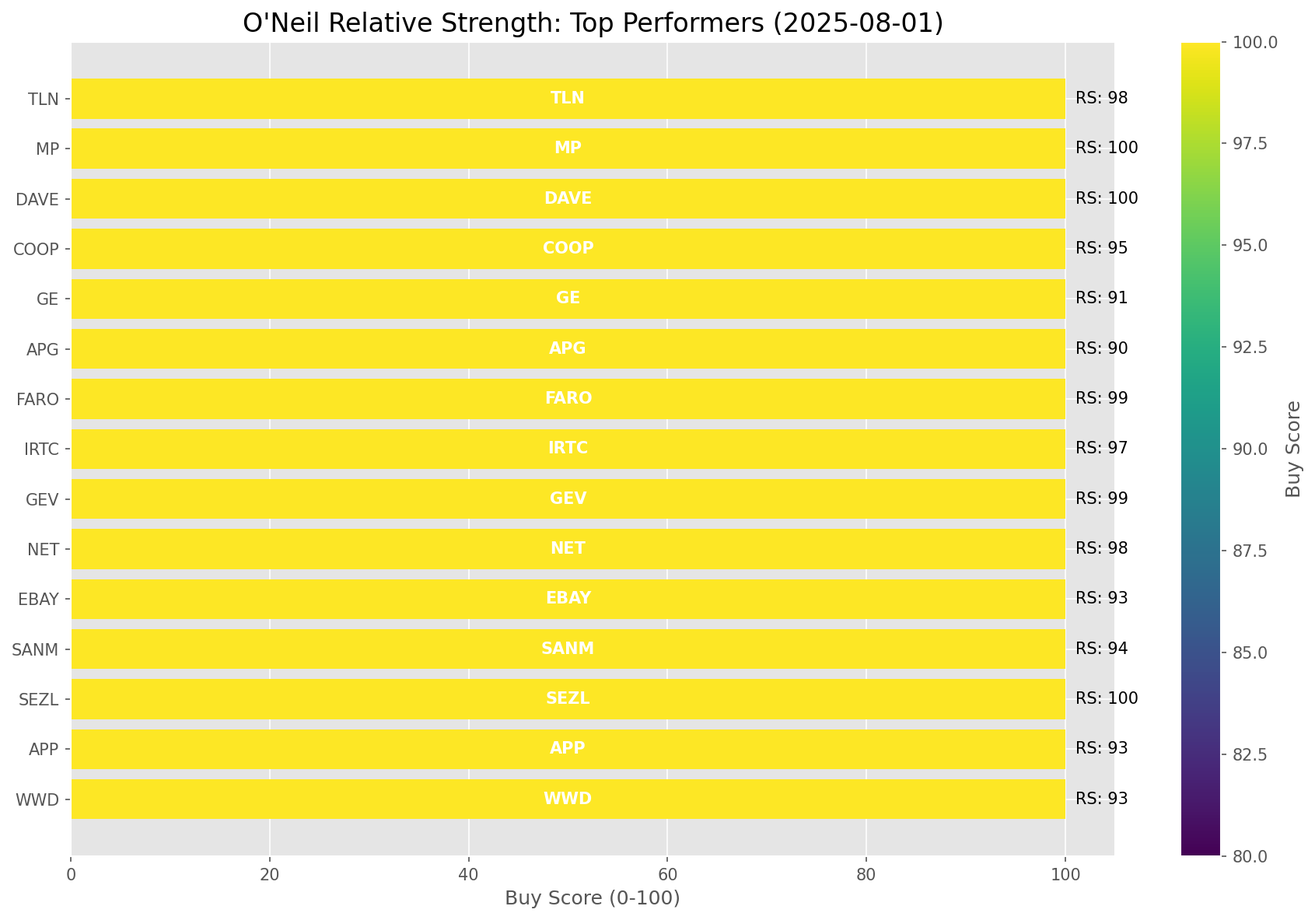
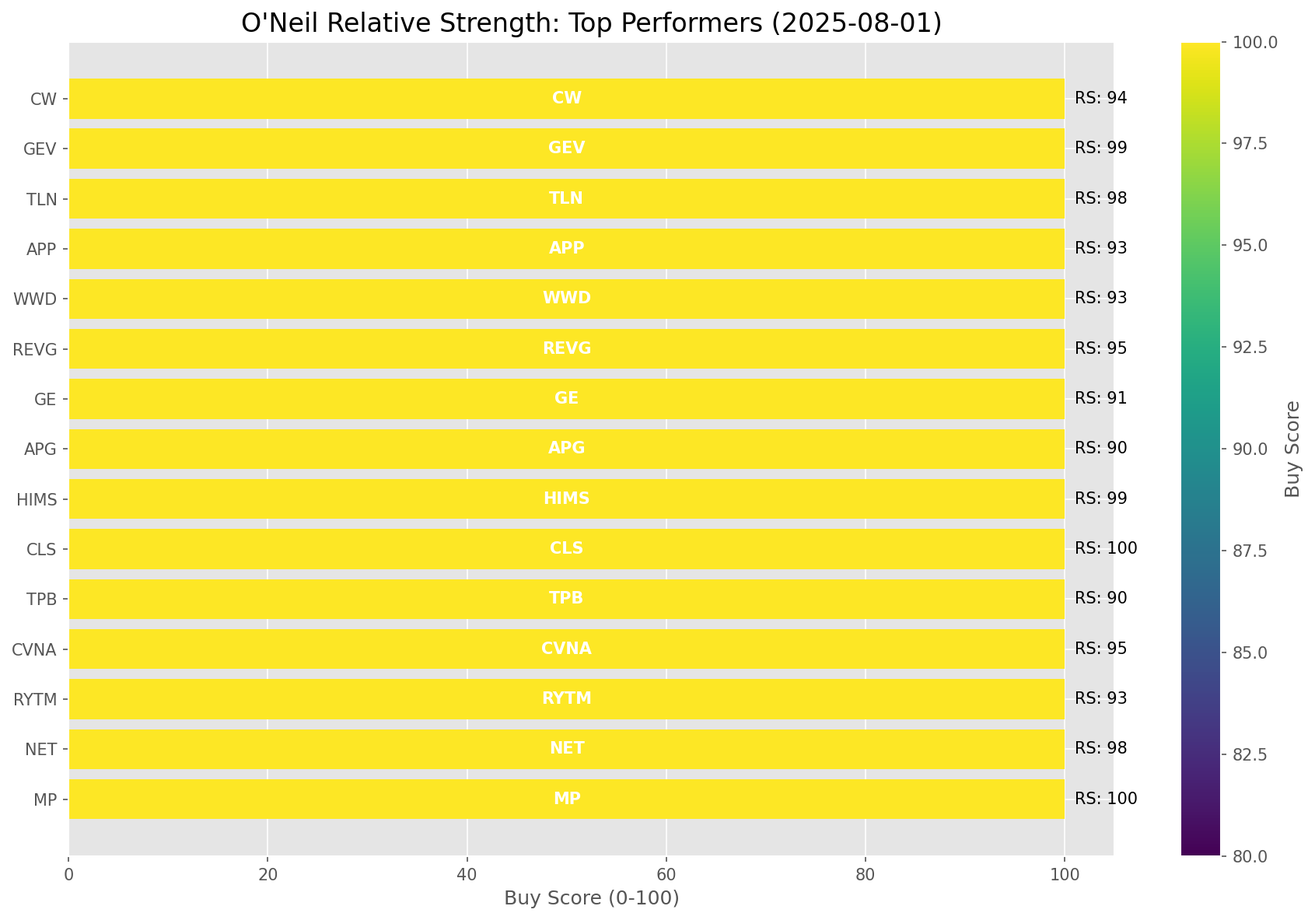
Add market report for 2025-08-01

diff --git a/oneil_relative_strength_report_2025-08-01.md b/oneil_relative_strength_report_2025-08-01.md
@@ -9,11 +9,11 @@
 | Metric | Value |
 |--------|-------|
 | **Market Valuation** | **Overvalued** |
-| **Current Ratio** | 10.09 |
+| **Current Ratio** | 10.08 |
 | **Historical Mean** | 9.55 |
 | **Standard Deviation** | 0.59 |
 | **Z-Score (StdDev from Mean)** | 1.20 |
-| **Total Market Cap** | $305.97 trillion |
+| **Total Market Cap** | $305.74 trillion |
 | **GDP** | $30.33 trillion |
 
 ## **Market Insights**
@@ -49,41 +49,41 @@ Based on William O'Neil's Relative Strength Methodology
 
 | ETF | Strength | RS Rating | Performance | Above Key MAs | Trend | Sector |
 |-----|----------|-----------|-------------|--------------|-------|--------|
-| [URA](https://www.tradingview.com/chart/?symbol=URA) | 88.6 | 97.0 | 50.81% | 10d ✗, 50d ✓, 200d ✓ | ↗ | Uranium |
-| [ARKW](https://www.tradingview.com/chart/?symbol=ARKW) | 87.6 | 95.0 | 45.14% | 10d ✗, 50d ✓, 200d ✓ | ↗ | Next Generation Internet |
+| [URA](https://www.tradingview.com/chart/?symbol=URA) | 88.6 | 97.0 | 51.01% | 10d ✗, 50d ✓, 200d ✓ | ↗ | Uranium |
+| [ARKW](https://www.tradingview.com/chart/?symbol=ARKW) | 87.6 | 95.0 | 45.27% | 10d ✗, 50d ✓, 200d ✓ | ↗ | Next Generation Internet |
+| [ARKF](https://www.tradingview.com/chart/?symbol=ARKF) | 87.1 | 94.0 | 40.97% | 10d ✗, 50d ✓, 200d ✓ | ↗ | Fintech Innovation |
 | [ARKK](https://www.tradingview.com/chart/?symbol=ARKK) | 87.1 | 94.0 | 40.16% | 10d ✗, 50d ✓, 200d ✓ | ↗ | Innovation |
-| [ARKF](https://www.tradingview.com/chart/?symbol=ARKF) | 87.1 | 94.0 | 40.94% | 10d ✗, 50d ✓, 200d ✓ | ↗ | Fintech Innovation |
-| [BLOK](https://www.tradingview.com/chart/?symbol=BLOK) | 86.6 | 93.0 | 36.83% | 10d ✗, 50d ✓, 200d ✓ | ↗ | Blockchain & Cryptocurrency |
-| [XLK](https://www.tradingview.com/chart/?symbol=XLK) | 81.1 | 82.0 | 20.70% | 10d ✗, 50d ✓, 200d ✓ | ↗ | Technology |
-| [XLU](https://www.tradingview.com/chart/?symbol=XLU) | 79.5 | 59.0 | 8.47% | 10d ✓, 50d ✓, 200d ✓ | ↗ | Utilities |
-| [AIQ](https://www.tradingview.com/chart/?symbol=AIQ) | 78.1 | 76.0 | 16.76% | 10d ✗, 50d ✓, 200d ✓ | ↗ | Artificial Intelligence & Technology |
-| [PAVE](https://www.tradingview.com/chart/?symbol=PAVE) | 77.6 | 75.0 | 15.85% | 10d ✗, 50d ✓, 200d ✓ | ↗ | Infrastructure |
-| [SLV](https://www.tradingview.com/chart/?symbol=SLV) | 76.1 | 72.0 | 14.04% | 10d ✗, 50d ✓, 200d ✓ | ↗ | Silver |
-| [XLI](https://www.tradingview.com/chart/?symbol=XLI) | 75.1 | 70.0 | 13.22% | 10d ✗, 50d ✓, 200d ✓ | ↗ | Industrial |
-| [XLC](https://www.tradingview.com/chart/?symbol=XLC) | 72.6 | 65.0 | 10.56% | 10d ✗, 50d ✓, 200d ✓ | ↗ | Communications |
-| [GLD](https://www.tradingview.com/chart/?symbol=GLD) | 72.5 | 45.0 | 3.68% | 10d ✓, 50d ✓, 200d ✓ | ↗ | Gold |
-| [IYZ](https://www.tradingview.com/chart/?symbol=IYZ) | 70.1 | 60.0 | 8.72% | 10d ✗, 50d ✓, 200d ✓ | ↗ | Telecommunications |
-| [SOXX](https://www.tradingview.com/chart/?symbol=SOXX) | 65.1 | 90.0 | 29.02% | 10d ✗, 50d ✓, 200d ✓ | ↘ | Semiconductors |
-| [XLY](https://www.tradingview.com/chart/?symbol=XLY) | 60.2 | 60.0 | 8.76% | 10d ✗, 50d ✗, 200d ✓ | ↗ | Consumer Discretionary |
-| [CIBR](https://www.tradingview.com/chart/?symbol=CIBR) | 58.2 | 56.0 | 7.45% | 10d ✗, 50d ✗, 200d ✓ | ↗ | Cybersecurity |
-| [KWEB](https://www.tradingview.com/chart/?symbol=KWEB) | 57.7 | 55.0 | 6.99% | 10d ✗, 50d ✗, 200d ✓ | ↗ | Chinese Internet |
-| [JETS](https://www.tradingview.com/chart/?symbol=JETS) | 57.5 | 75.0 | 16.17% | 10d ✗, 50d ✗, 200d ✗ | ↗ | Airlines |
-| [ICLN](https://www.tradingview.com/chart/?symbol=ICLN) | 57.1 | 74.0 | 15.42% | 10d ✗, 50d ✓, 200d ✓ | ↘ | Clean Energy |
-| [XLF](https://www.tradingview.com/chart/?symbol=XLF) | 55.7 | 51.0 | 5.41% | 10d ✗, 50d ✗, 200d ✓ | ↗ | Financial |
-| [ITB](https://www.tradingview.com/chart/?symbol=ITB) | 49.8 | 60.0 | 8.98% | 10d ✓, 50d ✓, 200d ✗ | ↘ | Home Construction |
-| [DBC](https://www.tradingview.com/chart/?symbol=DBC) | 47.1 | 54.0 | 6.82% | 10d ✗, 50d ✓, 200d ✓ | ↘ | Commodities |
-| [IBB](https://www.tradingview.com/chart/?symbol=IBB) | 46.6 | 53.0 | 6.27% | 10d ✗, 50d ✓, 200d ✓ | ↘ | Biotechnology |
-| [UUP](https://www.tradingview.com/chart/?symbol=UUP) | 35.3 | 31.0 | 0.16% | 10d ✓, 50d ✓, 200d ✗ | ↘ | U.S. Dollar |
-| [TLT](https://www.tradingview.com/chart/?symbol=TLT) | 33.3 | 27.0 | -0.92% | 10d ✓, 50d ✓, 200d ✗ | ↘ | Long-term Treasuries |
+| [BLOK](https://www.tradingview.com/chart/?symbol=BLOK) | 86.6 | 93.0 | 36.74% | 10d ✗, 50d ✓, 200d ✓ | ↗ | Blockchain & Cryptocurrency |
+| [XLK](https://www.tradingview.com/chart/?symbol=XLK) | 81.1 | 82.0 | 20.66% | 10d ✗, 50d ✓, 200d ✓ | ↗ | Technology |
+| [XLU](https://www.tradingview.com/chart/?symbol=XLU) | 79.5 | 59.0 | 8.43% | 10d ✓, 50d ✓, 200d ✓ | ↗ | Utilities |
+| [AIQ](https://www.tradingview.com/chart/?symbol=AIQ) | 78.6 | 77.0 | 16.95% | 10d ✗, 50d ✓, 200d ✓ | ↗ | Artificial Intelligence & Technology |
+| [PAVE](https://www.tradingview.com/chart/?symbol=PAVE) | 77.6 | 75.0 | 15.92% | 10d ✗, 50d ✓, 200d ✓ | ↗ | Infrastructure |
+| [SLV](https://www.tradingview.com/chart/?symbol=SLV) | 76.1 | 72.0 | 14.29% | 10d ✗, 50d ✓, 200d ✓ | ↗ | Silver |
+| [XLI](https://www.tradingview.com/chart/?symbol=XLI) | 75.6 | 71.0 | 13.26% | 10d ✗, 50d ✓, 200d ✓ | ↗ | Industrial |
+| [GLD](https://www.tradingview.com/chart/?symbol=GLD) | 73.0 | 46.0 | 3.92% | 10d ✓, 50d ✓, 200d ✓ | ↗ | Gold |
+| [XLC](https://www.tradingview.com/chart/?symbol=XLC) | 72.6 | 65.0 | 10.62% | 10d ✗, 50d ✓, 200d ✓ | ↗ | Communications |
+| [IYZ](https://www.tradingview.com/chart/?symbol=IYZ) | 70.1 | 60.0 | 8.79% | 10d ✗, 50d ✓, 200d ✓ | ↗ | Telecommunications |
+| [SOXX](https://www.tradingview.com/chart/?symbol=SOXX) | 65.1 | 90.0 | 29.22% | 10d ✗, 50d ✓, 200d ✓ | ↘ | Semiconductors |
+| [XLY](https://www.tradingview.com/chart/?symbol=XLY) | 60.7 | 61.0 | 8.94% | 10d ✗, 50d ✗, 200d ✓ | ↗ | Consumer Discretionary |
+| [KWEB](https://www.tradingview.com/chart/?symbol=KWEB) | 58.2 | 56.0 | 7.34% | 10d ✗, 50d ✗, 200d ✓ | ↗ | Chinese Internet |
+| [CIBR](https://www.tradingview.com/chart/?symbol=CIBR) | 58.2 | 56.0 | 7.37% | 10d ✗, 50d ✗, 200d ✓ | ↗ | Cybersecurity |
+| [JETS](https://www.tradingview.com/chart/?symbol=JETS) | 57.5 | 75.0 | 15.95% | 10d ✗, 50d ✗, 200d ✗ | ↗ | Airlines |
+| [ICLN](https://www.tradingview.com/chart/?symbol=ICLN) | 57.1 | 74.0 | 15.25% | 10d ✗, 50d ✓, 200d ✓ | ↘ | Clean Energy |
+| [XLF](https://www.tradingview.com/chart/?symbol=XLF) | 55.7 | 51.0 | 5.44% | 10d ✗, 50d ✗, 200d ✓ | ↗ | Financial |
+| [ITB](https://www.tradingview.com/chart/?symbol=ITB) | 49.8 | 60.0 | 8.87% | 10d ✓, 50d ✓, 200d ✗ | ↘ | Home Construction |
+| [DBC](https://www.tradingview.com/chart/?symbol=DBC) | 47.6 | 55.0 | 6.87% | 10d ✗, 50d ✓, 200d ✓ | ↘ | Commodities |
+| [IBB](https://www.tradingview.com/chart/?symbol=IBB) | 47.1 | 54.0 | 6.53% | 10d ✗, 50d ✓, 200d ✓ | ↘ | Biotechnology |
+| [UUP](https://www.tradingview.com/chart/?symbol=UUP) | 34.8 | 30.0 | 0.00% | 10d ✓, 50d ✓, 200d ✗ | ↘ | U.S. Dollar |
+| [TLT](https://www.tradingview.com/chart/?symbol=TLT) | 33.3 | 27.0 | -0.98% | 10d ✓, 50d ✓, 200d ✗ | ↘ | Long-term Treasuries |
 | [IYT](https://www.tradingview.com/chart/?symbol=IYT) | 31.0 | 62.0 | 9.68% | 10d ✗, 50d ✗, 200d ✗ | ↘ | Transportation |
-| [DBA](https://www.tradingview.com/chart/?symbol=DBA) | 29.0 | 18.0 | -4.91% | 10d ✗, 50d ✗, 200d ✗ | ↗ | Agriculture |
-| [ARKG](https://www.tradingview.com/chart/?symbol=ARKG) | 29.0 | 58.0 | 8.05% | 10d ✗, 50d ✗, 200d ✗ | ↘ | Genomics |
-| [XLE](https://www.tradingview.com/chart/?symbol=XLE) | 26.0 | 52.0 | 5.99% | 10d ✗, 50d ✗, 200d ✗ | ↘ | Energy |
-| [XLB](https://www.tradingview.com/chart/?symbol=XLB) | 23.0 | 46.0 | 3.75% | 10d ✗, 50d ✗, 200d ✗ | ↘ | Materials |
-| [IYR](https://www.tradingview.com/chart/?symbol=IYR) | 17.5 | 35.0 | 0.88% | 10d ✗, 50d ✗, 200d ✗ | ↘ | Real Estate |
+| [DBA](https://www.tradingview.com/chart/?symbol=DBA) | 29.5 | 19.0 | -4.86% | 10d ✗, 50d ✗, 200d ✗ | ↗ | Agriculture |
+| [ARKG](https://www.tradingview.com/chart/?symbol=ARKG) | 29.5 | 59.0 | 8.32% | 10d ✗, 50d ✗, 200d ✗ | ↘ | Genomics |
+| [XLE](https://www.tradingview.com/chart/?symbol=XLE) | 26.0 | 52.0 | 5.93% | 10d ✗, 50d ✗, 200d ✗ | ↘ | Energy |
+| [XLB](https://www.tradingview.com/chart/?symbol=XLB) | 23.0 | 46.0 | 3.83% | 10d ✗, 50d ✗, 200d ✗ | ↘ | Materials |
+| [IYR](https://www.tradingview.com/chart/?symbol=IYR) | 17.5 | 35.0 | 0.85% | 10d ✗, 50d ✗, 200d ✗ | ↘ | Real Estate |
 | [BIL](https://www.tradingview.com/chart/?symbol=BIL) | 15.0 | 30.0 | 0.04% | 10d ✗, 50d ✗, 200d ✗ | ↘ | Short-term Treasuries |
-| [XLP](https://www.tradingview.com/chart/?symbol=XLP) | 13.5 | 27.0 | -1.23% | 10d ✗, 50d ✗, 200d ✗ | ↘ | Consumer Staples |
-| [XLV](https://www.tradingview.com/chart/?symbol=XLV) | 10.0 | 20.0 | -4.06% | 10d ✗, 50d ✗, 200d ✗ | ↘ | Healthcare |
+| [XLP](https://www.tradingview.com/chart/?symbol=XLP) | 13.5 | 27.0 | -1.18% | 10d ✗, 50d ✗, 200d ✗ | ↘ | Consumer Staples |
+| [XLV](https://www.tradingview.com/chart/?symbol=XLV) | 10.0 | 20.0 | -4.03% | 10d ✗, 50d ✗, 200d ✗ | ↘ | Healthcare |
 
 ### **Sector ETF Performance Interpretation**
 
@@ -98,9 +98,9 @@ This table shows the relative strength metrics for different market sectors base
 
 ### **Current Sector Leadership**
 
-The current market leadership is coming from the following sectors: **Uranium, Next Generation Internet, Innovation**.
+The current market leadership is coming from the following sectors: **Uranium, Next Generation Internet, Fintech Innovation**.
 
-The **Uranium** sector (represented by **URA**) is showing particularly strong relative strength with an RS rating of 97.0 and performance of 50.81% vs. the S&P 500. This sector is trading above its 50-day, 200-day moving average(s). Investors should consider focusing on high RS stocks within these leading sectors for potential outperformance.
+The **Uranium** sector (represented by **URA**) is showing particularly strong relative strength with an RS rating of 97.0 and performance of 51.01% vs. the S&P 500. This sector is trading above its 50-day, 200-day moving average(s). Investors should consider focusing on high RS stocks within these leading sectors for potential outperformance.
 
 ---
 
@@ -110,134 +110,118 @@ The following 40 stocks show exceptional relative strength:
 
 | RS Rating | Buy Score | Current Price | Chart | Name | Ticker |
 |-----------|-----------|---------------|-------|------|--------|
-| 100 | 100 | $143.89 | [Chart](https://www.tradingview.com/chart/?symbol=SEZL) | Sezzle Inc. Common Stock | SEZL |
-| 100 | 100 | $230.88 | [Chart](https://www.tradingview.com/chart/?symbol=DAVE) | Dave Inc. Class A Common Stock | DAVE |
-| 100 | 100 | $63.70 | [Chart](https://www.tradingview.com/chart/?symbol=MP) | MP Materials Corp. | MP |
-| 100 | 100 | $193.70 | [Chart](https://www.tradingview.com/chart/?symbol=CLS) | Celestica, Inc. | CLS |
-| 99 | 100 | $655.82 | [Chart](https://www.tradingview.com/chart/?symbol=GEV) | GE Vernova Inc. | GEV |
-| 99 | 100 | $61.98 | [Chart](https://www.tradingview.com/chart/?symbol=HIMS) | Hims & Hers Health, Inc. | HIMS |
-| 99 | 100 | $124.51 | [Chart](https://www.tradingview.com/chart/?symbol=RBLX) | Roblox Corporation | RBLX |
-| 99 | 100 | $27.34 | [Chart](https://www.tradingview.com/chart/?symbol=CPS) | Cooper-Standard Automotive Inc. | CPS |
-| 98 | 100 | $199.79 | [Chart](https://www.tradingview.com/chart/?symbol=NET) | Cloudflare, Inc. Class A common stock, par value $0.001 per share | NET |
-| 98 | 100 | $379.57 | [Chart](https://www.tradingview.com/chart/?symbol=TLN) | Talen Energy Corporation Common Stock | TLN |
-| 97 | 100 | $165.69 | [Chart](https://www.tradingview.com/chart/?symbol=IRTC) | iRhythm Technologies, Inc | IRTC |
-| 96 | 100 | $167.58 | [Chart](https://www.tradingview.com/chart/?symbol=NRG) | NRG Energy, Inc. | NRG |
-| 95 | 100 | $172.48 | [Chart](https://www.tradingview.com/chart/?symbol=COOP) | Mr. Cooper Group Inc. Common Stock | COOP |
-| 95 | 100 | $105.16 | [Chart](https://www.tradingview.com/chart/?symbol=VRNA) | Verona Pharma plc | VRNA |
-| 95 | 100 | $367.42 | [Chart](https://www.tradingview.com/chart/?symbol=CVNA) | Carvana Co. | CVNA |
-| 95 | 100 | $48.30 | [Chart](https://www.tradingview.com/chart/?symbol=REVG) | REV Group, Inc. | REVG |
-| 94 | 100 | $110.78 | [Chart](https://www.tradingview.com/chart/?symbol=SANM) | Sanmina  Corp | SANM |
-| 94 | 100 | $493.45 | [Chart](https://www.tradingview.com/chart/?symbol=CW) | Curtiss-Wright Corp. | CW |
-| 93 | 100 | $258.85 | [Chart](https://www.tradingview.com/chart/?symbol=WWD) | Woodward, Inc. | WWD |
-| 93 | 100 | $379.67 | [Chart](https://www.tradingview.com/chart/?symbol=APP) | Applovin Corporation Class A Common Stock | APP |
-| 93 | 100 | $92.34 | [Chart](https://www.tradingview.com/chart/?symbol=EBAY) | eBay Inc | EBAY |
-| 93 | 100 | $87.59 | [Chart](https://www.tradingview.com/chart/?symbol=RYTM) | Rhythm Pharmaceuticals, Inc. Common Stock | RYTM |
-| 93 | 100 | $43.02 | [Chart](https://www.tradingview.com/chart/?symbol=LTM) | LATAM Airlines Group S.A. American Depositary Shares (each representing two thousand (2,000) shares of Common Stock) | LTM |
-| 91 | 100 | $268.80 | [Chart](https://www.tradingview.com/chart/?symbol=GE) | GE Aerospace | GE |
-| 91 | 100 | $81.68 | [Chart](https://www.tradingview.com/chart/?symbol=TPB) | Turning Point Brands, Inc. | TPB |
-| 90 | 100 | $35.22 | [Chart](https://www.tradingview.com/chart/?symbol=APG) | APi Group Corporation | APG |
-| 88 | 100 | $29.69 | [Chart](https://www.tradingview.com/chart/?symbol=SRAD) | Sportradar Group AG Class A Ordinary Shares | SRAD |
-| 88 | 100 | $145.91 | [Chart](https://www.tradingview.com/chart/?symbol=VSEC) | VSE Corp | VSEC |
-| 89 | 99 | $187.46 | [Chart](https://www.tradingview.com/chart/?symbol=AWI) | Armstrong World Industries, Inc. | AWI |
-| 87 | 99 | $54.40 | [Chart](https://www.tradingview.com/chart/?symbol=BTI) | British American Tobacco p.l.c. American Depositary Shares, American Depositary Shares, each representing one Ordinary Share | BTI |
-| 86 | 99 | $56.93 | [Chart](https://www.tradingview.com/chart/?symbol=ERJ) | Embraer S.A. | ERJ |
-| 84 | 97 | $32.47 | [Chart](https://www.tradingview.com/chart/?symbol=DB) | Deutsche Bank Aktiengesellschaft | DB |
+| 100 | 100 | $63.69 | [Chart](https://www.tradingview.com/chart/?symbol=MP) | MP Materials Corp. | MP |
+| 100 | 100 | $194.74 | [Chart](https://www.tradingview.com/chart/?symbol=CLS) | Celestica, Inc. | CLS |
+| 100 | 100 | $232.73 | [Chart](https://www.tradingview.com/chart/?symbol=DAVE) | Dave Inc. Class A Common Stock | DAVE |
+| 100 | 100 | $144.00 | [Chart](https://www.tradingview.com/chart/?symbol=SEZL) | Sezzle Inc. Common Stock | SEZL |
+| 99 | 100 | $62.55 | [Chart](https://www.tradingview.com/chart/?symbol=HIMS) | Hims & Hers Health, Inc. | HIMS |
+| 99 | 100 | $656.50 | [Chart](https://www.tradingview.com/chart/?symbol=GEV) | GE Vernova Inc. | GEV |
+| 99 | 100 | $125.03 | [Chart](https://www.tradingview.com/chart/?symbol=RBLX) | Roblox Corporation | RBLX |
+| 99 | 100 | $26.34 | [Chart](https://www.tradingview.com/chart/?symbol=CPS) | Cooper-Standard Automotive Inc. | CPS |
+| 98 | 100 | $200.11 | [Chart](https://www.tradingview.com/chart/?symbol=NET) | Cloudflare, Inc. Class A common stock, par value $0.001 per share | NET |
+| 98 | 100 | $378.01 | [Chart](https://www.tradingview.com/chart/?symbol=TLN) | Talen Energy Corporation Common Stock | TLN |
+| 97 | 100 | $164.97 | [Chart](https://www.tradingview.com/chart/?symbol=IRTC) | iRhythm Technologies, Inc | IRTC |
+| 96 | 100 | $167.63 | [Chart](https://www.tradingview.com/chart/?symbol=NRG) | NRG Energy, Inc. | NRG |
+| 95 | 100 | $367.78 | [Chart](https://www.tradingview.com/chart/?symbol=CVNA) | Carvana Co. | CVNA |
+| 95 | 100 | $48.37 | [Chart](https://www.tradingview.com/chart/?symbol=REVG) | REV Group, Inc. | REVG |
+| 95 | 100 | $174.26 | [Chart](https://www.tradingview.com/chart/?symbol=COOP) | Mr. Cooper Group Inc. Common Stock | COOP |
+| 95 | 100 | $105.18 | [Chart](https://www.tradingview.com/chart/?symbol=VRNA) | Verona Pharma plc | VRNA |
+| 94 | 100 | $493.58 | [Chart](https://www.tradingview.com/chart/?symbol=CW) | Curtiss-Wright Corp. | CW |
+| 94 | 100 | $110.96 | [Chart](https://www.tradingview.com/chart/?symbol=SANM) | Sanmina  Corp | SANM |
+| 93 | 100 | $88.30 | [Chart](https://www.tradingview.com/chart/?symbol=RYTM) | Rhythm Pharmaceuticals, Inc. Common Stock | RYTM |
+| 93 | 100 | $259.29 | [Chart](https://www.tradingview.com/chart/?symbol=WWD) | Woodward, Inc. | WWD |
+| 93 | 100 | $379.17 | [Chart](https://www.tradingview.com/chart/?symbol=APP) | Applovin Corporation Class A Common Stock | APP |
+| 93 | 100 | $42.76 | [Chart](https://www.tradingview.com/chart/?symbol=LTM) | LATAM Airlines Group S.A. American Depositary Shares (each representing two thousand (2,000) shares of Common Stock) | LTM |
+| 93 | 100 | $91.74 | [Chart](https://www.tradingview.com/chart/?symbol=EBAY) | eBay Inc | EBAY |
+| 91 | 100 | $269.38 | [Chart](https://www.tradingview.com/chart/?symbol=GE) | GE Aerospace | GE |
+| 90 | 100 | $80.96 | [Chart](https://www.tradingview.com/chart/?symbol=TPB) | Turning Point Brands, Inc. | TPB |
+| 90 | 100 | $35.07 | [Chart](https://www.tradingview.com/chart/?symbol=APG) | APi Group Corporation | APG |
+| 89 | 100 | $146.27 | [Chart](https://www.tradingview.com/chart/?symbol=VSEC) | VSE Corp | VSEC |
+| 87 | 100 | $29.57 | [Chart](https://www.tradingview.com/chart/?symbol=SRAD) | Sportradar Group AG Class A Ordinary Shares | SRAD |
+| 89 | 99 | $188.52 | [Chart](https://www.tradingview.com/chart/?symbol=AWI) | Armstrong World Industries, Inc. | AWI |
+| 87 | 99 | $54.35 | [Chart](https://www.tradingview.com/chart/?symbol=BTI) | British American Tobacco p.l.c. American Depositary Shares, American Depositary Shares, each representing one Ordinary Share | BTI |
+| 85 | 98 | $56.84 | [Chart](https://www.tradingview.com/chart/?symbol=ERJ) | Embraer S.A. | ERJ |
+| 87 | 97 | $259.02 | [Chart](https://www.tradingview.com/chart/?symbol=WTS) | Watts Water Technologies, Inc. Class A | WTS |
+| 85 | 97 | $47.37 | [Chart](https://www.tradingview.com/chart/?symbol=BBIO) | BridgeBio Pharma, Inc. Common Stock | BBIO |
+| 84 | 97 | $32.53 | [Chart](https://www.tradingview.com/chart/?symbol=DB) | Deutsche Bank Aktiengesellschaft | DB |
 | 84 | 97 | $38.89 | [Chart](https://www.tradingview.com/chart/?symbol=AHR) | American Healthcare REIT, Inc. | AHR |
-| 86 | 96 | $94.86 | [Chart](https://www.tradingview.com/chart/?symbol=NDAQ) | Nasdaq, Inc. Common Stock | NDAQ |
-| 86 | 96 | $258.86 | [Chart](https://www.tradingview.com/chart/?symbol=WTS) | Watts Water Technologies, Inc. Class A | WTS |
-| 85 | 96 | $71.99 | [Chart](https://www.tradingview.com/chart/?symbol=ULS) | UL Solutions Inc. | ULS |
-| 84 | 96 | $46.95 | [Chart](https://www.tradingview.com/chart/?symbol=BBIO) | BridgeBio Pharma, Inc. Common Stock | BBIO |
-| 82 | 92 | $49.31 | [Chart](https://www.tradingview.com/chart/?symbol=FHI) | Federated Hermes, Inc. | FHI |
-| 81 | 91 | $111.49 | [Chart](https://www.tradingview.com/chart/?symbol=SXT) | Sensient Technology Corporation | SXT |
-| 80 | 91 | $236.16 | [Chart](https://www.tradingview.com/chart/?symbol=BAP) | Credicorp LTD | BAP |
+| 86 | 96 | $95.17 | [Chart](https://www.tradingview.com/chart/?symbol=NDAQ) | Nasdaq, Inc. Common Stock | NDAQ |
+| 84 | 95 | $71.90 | [Chart](https://www.tradingview.com/chart/?symbol=ULS) | UL Solutions Inc. | ULS |
+| 82 | 92 | $49.23 | [Chart](https://www.tradingview.com/chart/?symbol=FHI) | Federated Hermes, Inc. | FHI |
+| 82 | 92 | $111.71 | [Chart](https://www.tradingview.com/chart/?symbol=SXT) | Sensient Technology Corporation | SXT |
+| 80 | 91 | $236.50 | [Chart](https://www.tradingview.com/chart/?symbol=BAP) | Credicorp LTD | BAP |
 
 ---
 
 
 ## **Sell Recommendations**
 
-The following 78 stocks show deteriorating relative strength:
+The following 62 stocks show deteriorating relative strength:
 
 | RS Rating | Sell Score | Current Price | Chart | Name | Ticker |
 |-----------|------------|---------------|-------|------|--------|
-| 1 | 100 | $12.49 | [Chart](https://www.tradingview.com/chart/?symbol=NVDS) | Investment Managers Series Trust II Tradr 1.5X Short NVDA Daily ETF | NVDS |
-| 1 | 100 | $70.59 | [Chart](https://www.tradingview.com/chart/?symbol=LNTH) | Lantheus Holdings, Inc | LNTH |
-| 2 | 100 | $13.72 | [Chart](https://www.tradingview.com/chart/?symbol=CLBT) | Cellebrite DI Ltd. Class A Ordinary Shares | CLBT |
-| 2 | 100 | $35.27 | [Chart](https://www.tradingview.com/chart/?symbol=IBTA) | Ibotta, Inc. | IBTA |
-| 3 | 100 | $14.84 | [Chart](https://www.tradingview.com/chart/?symbol=CSTL) | Castle Biosciences, Inc. Common Stock | CSTL |
-| 3 | 100 | $24.19 | [Chart](https://www.tradingview.com/chart/?symbol=DUST) | Direxion Daily Gold Miners Index Bear 2X Shares | DUST |
-| 4 | 100 | $24.61 | [Chart](https://www.tradingview.com/chart/?symbol=ZSL) | ProShares UltraShort Silver | ZSL |
-| 5 | 100 | $43.27 | [Chart](https://www.tradingview.com/chart/?symbol=SDOW) | ProShares UltraPro Short Dow 30 | SDOW |
-| 5 | 100 | $12.24 | [Chart](https://www.tradingview.com/chart/?symbol=CDNA) | CareDx, Inc. | CDNA |
-| 5 | 100 | $10.29 | [Chart](https://www.tradingview.com/chart/?symbol=ARDT) | Ardent Health, Inc. | ARDT |
+| 1 | 100 | $70.57 | [Chart](https://www.tradingview.com/chart/?symbol=LNTH) | Lantheus Holdings, Inc | LNTH |
+| 1 | 100 | $12.47 | [Chart](https://www.tradingview.com/chart/?symbol=NVDS) | Investment Managers Series Trust II Tradr 1.5X Short NVDA Daily ETF | NVDS |
+| 2 | 100 | $13.70 | [Chart](https://www.tradingview.com/chart/?symbol=CLBT) | Cellebrite DI Ltd. Class A Ordinary Shares | CLBT |
+| 3 | 100 | $14.65 | [Chart](https://www.tradingview.com/chart/?symbol=CSTL) | Castle Biosciences, Inc. Common Stock | CSTL |
+| 3 | 100 | $24.50 | [Chart](https://www.tradingview.com/chart/?symbol=ZSL) | ProShares UltraShort Silver | ZSL |
+| 5 | 100 | $12.22 | [Chart](https://www.tradingview.com/chart/?symbol=CDNA) | CareDx, Inc. | CDNA |
+| 5 | 100 | $43.26 | [Chart](https://www.tradingview.com/chart/?symbol=SDOW) | ProShares UltraPro Short Dow 30 | SDOW |
+| 5 | 100 | $10.22 | [Chart](https://www.tradingview.com/chart/?symbol=ARDT) | Ardent Health, Inc. | ARDT |
 | 6 | 100 | $10.37 | [Chart](https://www.tradingview.com/chart/?symbol=OEC) | Orion S.A. | OEC |
-| 6 | 100 | $20.72 | [Chart](https://www.tradingview.com/chart/?symbol=KIDS) | OrthoPediatrics Corp. Common Stock | KIDS |
-| 7 | 100 | $20.69 | [Chart](https://www.tradingview.com/chart/?symbol=AMRK) | A-Mark Precious Metals, Inc. | AMRK |
-| 8 | 100 | $22.39 | [Chart](https://www.tradingview.com/chart/?symbol=ERY) | Direxion Daily Energy Bear 2X Shares | ERY |
-| 8 | 100 | $31.39 | [Chart](https://www.tradingview.com/chart/?symbol=GLBE) | Global-E Online Ltd. Ordinary Shares | GLBE |
-| 9 | 100 | $54.50 | [Chart](https://www.tradingview.com/chart/?symbol=HRB) | H&R Block, Inc. | HRB |
-| 13 | 100 | $16.24 | [Chart](https://www.tradingview.com/chart/?symbol=UMH) | UMH Properties, Inc. | UMH |
-| 14 | 100 | $14.92 | [Chart](https://www.tradingview.com/chart/?symbol=FIHL) | Fidelis Insurance Holdings Limited | FIHL |
-| 6 | 99 | $15.02 | [Chart](https://www.tradingview.com/chart/?symbol=PLSE) | Pulse Biosciences, Inc Common Stock (DE) | PLSE |
-| 8 | 99 | $12.52 | [Chart](https://www.tradingview.com/chart/?symbol=BSM) | Black Stone Minerals, L.P. | BSM |
-| 10 | 99 | $21.14 | [Chart](https://www.tradingview.com/chart/?symbol=AMPH) | Amphastar Pharmaceuticals, Inc. | AMPH |
-| 12 | 99 | $52.61 | [Chart](https://www.tradingview.com/chart/?symbol=AMWD) | American Woodmark Corp | AMWD |
-| 7 | 98 | $18.76 | [Chart](https://www.tradingview.com/chart/?symbol=GAP) | The Gap, Inc. | GAP |
-| 9 | 98 | $17.95 | [Chart](https://www.tradingview.com/chart/?symbol=AMN) | AMN Healthcare Services | AMN |
+| 6 | 100 | $20.39 | [Chart](https://www.tradingview.com/chart/?symbol=KIDS) | OrthoPediatrics Corp. Common Stock | KIDS |
+| 7 | 100 | $20.57 | [Chart](https://www.tradingview.com/chart/?symbol=AMRK) | A-Mark Precious Metals, Inc. | AMRK |
+| 9 | 100 | $54.48 | [Chart](https://www.tradingview.com/chart/?symbol=HRB) | H&R Block, Inc. | HRB |
+| 14 | 100 | $14.87 | [Chart](https://www.tradingview.com/chart/?symbol=FIHL) | Fidelis Insurance Holdings Limited | FIHL |
+| 6 | 99 | $14.75 | [Chart](https://www.tradingview.com/chart/?symbol=PLSE) | Pulse Biosciences, Inc Common Stock (DE) | PLSE |
+| 8 | 99 | $22.39 | [Chart](https://www.tradingview.com/chart/?symbol=ERY) | Direxion Daily Energy Bear 2X Shares | ERY |
+| 8 | 99 | $31.42 | [Chart](https://www.tradingview.com/chart/?symbol=GLBE) | Global-E Online Ltd. Ordinary Shares | GLBE |
+| 12 | 99 | $52.44 | [Chart](https://www.tradingview.com/chart/?symbol=AMWD) | American Woodmark Corp | AMWD |
 | 9 | 98 | $10.18 | [Chart](https://www.tradingview.com/chart/?symbol=IMXI) | International Money Express, Inc. | IMXI |
-| 15 | 98 | $127.38 | [Chart](https://www.tradingview.com/chart/?symbol=ICUI) | ICU Medical Inc | ICUI |
-| 6 | 97 | $20.68 | [Chart](https://www.tradingview.com/chart/?symbol=BLFS) | BioLife Solutions Inc. | BLFS |
-| 9 | 97 | $10.07 | [Chart](https://www.tradingview.com/chart/?symbol=SD) | SandRidge Energy, Inc. | SD |
-| 10 | 97 | $18.80 | [Chart](https://www.tradingview.com/chart/?symbol=AVBP) | ArriVent BioPharma, Inc. Common Stock | AVBP |
-| 12 | 97 | $10.60 | [Chart](https://www.tradingview.com/chart/?symbol=CLB) | Core Laboratories Inc. | CLB |
-| 10 | 96 | $35.48 | [Chart](https://www.tradingview.com/chart/?symbol=LZB) | La-Z-Boy Incorporated | LZB |
-| 18 | 95 | $71.17 | [Chart](https://www.tradingview.com/chart/?symbol=NHI) | National Health Investors | NHI |
-| 13 | 93 | $10.20 | [Chart](https://www.tradingview.com/chart/?symbol=ACIC) | American Coastal Insurance Corporation Common Stock | ACIC |
-| 17 | 92 | $15.64 | [Chart](https://www.tradingview.com/chart/?symbol=MLNK) | MeridianLink, Inc. | MLNK |
-| 15 | 90 | $13.02 | [Chart](https://www.tradingview.com/chart/?symbol=GOOD) | Gladstone Commercial Corporation - REIT | GOOD |
-| 21 | 90 | $37.16 | [Chart](https://www.tradingview.com/chart/?symbol=PBA) | PEMBINA PIPELINE CORPORATION | PBA |
-| 21 | 89 | $85.62 | [Chart](https://www.tradingview.com/chart/?symbol=BCO) | The Brink's Company | BCO |
-| 18 | 88 | $21.88 | [Chart](https://www.tradingview.com/chart/?symbol=CURB) | Curbline Properties Corp. | CURB |
-| 21 | 88 | $18.52 | [Chart](https://www.tradingview.com/chart/?symbol=VSCO) | Victorias Secret & Co. | VSCO |
-| 14 | 87 | $10.44 | [Chart](https://www.tradingview.com/chart/?symbol=SONO) | Sonos, Inc. Common Stock | SONO |
-| 19 | 87 | $11.93 | [Chart](https://www.tradingview.com/chart/?symbol=WSR) | Whitestone REIT | WSR |
-| 21 | 86 | $31.60 | [Chart](https://www.tradingview.com/chart/?symbol=DAR) | DARLING INGREDIENTS INC. | DAR |
-| 23 | 86 | $12.55 | [Chart](https://www.tradingview.com/chart/?symbol=ZYME) | Zymeworks Inc. | ZYME |
-| 25 | 86 | $10.42 | [Chart](https://www.tradingview.com/chart/?symbol=LOCO) | El Pollo Loco Holdings, Inc. | LOCO |
-| 28 | 86 | $16.51 | [Chart](https://www.tradingview.com/chart/?symbol=SVOL) | Simplify Volatility Premium ETF | SVOL |
-| 23 | 85 | $13.17 | [Chart](https://www.tradingview.com/chart/?symbol=CCRN) | Cross Country Healthcare Inc | CCRN |
-| 18 | 84 | $97.78 | [Chart](https://www.tradingview.com/chart/?symbol=AFL) | Aflac Inc. | AFL |
-| 24 | 84 | $10.04 | [Chart](https://www.tradingview.com/chart/?symbol=NMZ) | Nuveen Municipal High Income Opportunity Fund | NMZ |
-| 26 | 83 | $138.26 | [Chart](https://www.tradingview.com/chart/?symbol=DVA) | DaVita Inc. | DVA |
-| 25 | 82 | $11.78 | [Chart](https://www.tradingview.com/chart/?symbol=NVG) | Nuveen AMT-Free Municipal Credit Income Fund | NVG |
-| 23 | 79 | $10.20 | [Chart](https://www.tradingview.com/chart/?symbol=BRKL) | Brookline Bancorp Inc | BRKL |
-| 23 | 79 | $186.57 | [Chart](https://www.tradingview.com/chart/?symbol=AIZ) | Assurant, Inc. | AIZ |
-| 24 | 79 | $12.10 | [Chart](https://www.tradingview.com/chart/?symbol=NU) | Nu Holdings Ltd. | NU |
-| 24 | 79 | $152.70 | [Chart](https://www.tradingview.com/chart/?symbol=NICE) | NICE Ltd | NICE |
-| 23 | 78 | $73.85 | [Chart](https://www.tradingview.com/chart/?symbol=MET) | MetLife, Inc. | MET |
-| 28 | 78 | $18.73 | [Chart](https://www.tradingview.com/chart/?symbol=KRNT) | Kornit Digital Ltd. | KRNT |
-| 28 | 78 | $12.22 | [Chart](https://www.tradingview.com/chart/?symbol=RQI) | COHEN & STEERS QUALITY INCOME REALTY FUND, INC. COMMON SHARES | RQI |
-| 29 | 78 | $23.29 | [Chart](https://www.tradingview.com/chart/?symbol=IBTF) | iShares iBonds Dec 2025 Term Treasury ETF | IBTF |
-| 30 | 77 | $59.90 | [Chart](https://www.tradingview.com/chart/?symbol=FTSM) | First Trust Enhanced Short Maturity ETF | FTSM |
-| 24 | 76 | $86.05 | [Chart](https://www.tradingview.com/chart/?symbol=BIDU) | Baidu, Inc. | BIDU |
-| 27 | 76 | $44.74 | [Chart](https://www.tradingview.com/chart/?symbol=EPI) | WisdomTree India Earnings Fund ETF | EPI |
+| 13 | 98 | $16.23 | [Chart](https://www.tradingview.com/chart/?symbol=UMH) | UMH Properties, Inc. | UMH |
+| 7 | 97 | $18.84 | [Chart](https://www.tradingview.com/chart/?symbol=GAP) | The Gap, Inc. | GAP |
+| 9 | 97 | $12.56 | [Chart](https://www.tradingview.com/chart/?symbol=BSM) | Black Stone Minerals, L.P. | BSM |
+| 9 | 97 | $18.66 | [Chart](https://www.tradingview.com/chart/?symbol=AVBP) | ArriVent BioPharma, Inc. Common Stock | AVBP |
+| 15 | 97 | $127.40 | [Chart](https://www.tradingview.com/chart/?symbol=ICUI) | ICU Medical Inc | ICUI |
+| 8 | 96 | $10.00 | [Chart](https://www.tradingview.com/chart/?symbol=SD) | SandRidge Energy, Inc. | SD |
+| 7 | 95 | $20.80 | [Chart](https://www.tradingview.com/chart/?symbol=BLFS) | BioLife Solutions Inc. | BLFS |
+| 12 | 95 | $10.53 | [Chart](https://www.tradingview.com/chart/?symbol=CLB) | Core Laboratories Inc. | CLB |
+| 10 | 94 | $35.41 | [Chart](https://www.tradingview.com/chart/?symbol=LZB) | La-Z-Boy Incorporated | LZB |
+| 12 | 92 | $10.13 | [Chart](https://www.tradingview.com/chart/?symbol=ACIC) | American Coastal Insurance Corporation Common Stock | ACIC |
+| 16 | 91 | $15.57 | [Chart](https://www.tradingview.com/chart/?symbol=MLNK) | MeridianLink, Inc. | MLNK |
+| 15 | 89 | $13.01 | [Chart](https://www.tradingview.com/chart/?symbol=GOOD) | Gladstone Commercial Corporation - REIT | GOOD |
+| 21 | 89 | $37.20 | [Chart](https://www.tradingview.com/chart/?symbol=PBA) | PEMBINA PIPELINE CORPORATION | PBA |
+| 17 | 88 | $11.80 | [Chart](https://www.tradingview.com/chart/?symbol=WSR) | Whitestone REIT | WSR |
+| 20 | 88 | $85.19 | [Chart](https://www.tradingview.com/chart/?symbol=BCO) | The Brink's Company | BCO |
+| 18 | 87 | $21.89 | [Chart](https://www.tradingview.com/chart/?symbol=CURB) | Curbline Properties Corp. | CURB |
+| 21 | 86 | $13.04 | [Chart](https://www.tradingview.com/chart/?symbol=CCRN) | Cross Country Healthcare Inc | CCRN |
+| 28 | 86 | $16.48 | [Chart](https://www.tradingview.com/chart/?symbol=SVOL) | Simplify Volatility Premium ETF | SVOL |
+| 23 | 85 | $18.72 | [Chart](https://www.tradingview.com/chart/?symbol=VSCO) | Victorias Secret & Co. | VSCO |
+| 21 | 84 | $31.49 | [Chart](https://www.tradingview.com/chart/?symbol=DAR) | DARLING INGREDIENTS INC. | DAR |
+| 24 | 84 | $12.57 | [Chart](https://www.tradingview.com/chart/?symbol=ZYME) | Zymeworks Inc. | ZYME |
+| 24 | 83 | $10.07 | [Chart](https://www.tradingview.com/chart/?symbol=NMZ) | Nuveen Municipal High Income Opportunity Fund | NMZ |
+| 26 | 83 | $10.45 | [Chart](https://www.tradingview.com/chart/?symbol=LOCO) | El Pollo Loco Holdings, Inc. | LOCO |
+| 26 | 81 | $138.48 | [Chart](https://www.tradingview.com/chart/?symbol=DVA) | DaVita Inc. | DVA |
+| 24 | 78 | $12.05 | [Chart](https://www.tradingview.com/chart/?symbol=NU) | Nu Holdings Ltd. | NU |
+| 24 | 78 | $152.61 | [Chart](https://www.tradingview.com/chart/?symbol=NICE) | NICE Ltd | NICE |
+| 27 | 78 | $18.65 | [Chart](https://www.tradingview.com/chart/?symbol=KRNT) | Kornit Digital Ltd. | KRNT |
+| 23 | 77 | $186.48 | [Chart](https://www.tradingview.com/chart/?symbol=AIZ) | Assurant, Inc. | AIZ |
+| 23 | 77 | $10.19 | [Chart](https://www.tradingview.com/chart/?symbol=BRKL) | Brookline Bancorp Inc | BRKL |
+| 28 | 77 | $12.22 | [Chart](https://www.tradingview.com/chart/?symbol=RQI) | COHEN & STEERS QUALITY INCOME REALTY FUND, INC. COMMON SHARES | RQI |
+| 30 | 76 | $23.29 | [Chart](https://www.tradingview.com/chart/?symbol=IBTF) | iShares iBonds Dec 2025 Term Treasury ETF | IBTF |
 | 31 | 76 | $100.28 | [Chart](https://www.tradingview.com/chart/?symbol=MINT) | PIMCO Enhanced Short Maturity Active Exchange-Traded Fund | MINT |
-| 37 | 75 | $40.62 | [Chart](https://www.tradingview.com/chart/?symbol=APOG) | Apogee Enterprises Inc | APOG |
-| 32 | 74 | $23.13 | [Chart](https://www.tradingview.com/chart/?symbol=IBHF) | iShares iBonds 2026 Term High Yield and Income ETF | IBHF |
-| 36 | 74 | $20.88 | [Chart](https://www.tradingview.com/chart/?symbol=BKLN) | Invesco Senior Loan ETF | BKLN |
-| 32 | 73 | $294.83 | [Chart](https://www.tradingview.com/chart/?symbol=UTHR) | United Therapeutics Corp | UTHR |
-| 32 | 73 | $30.73 | [Chart](https://www.tradingview.com/chart/?symbol=FLRN) | SPDR Bloomberg Investment Grade Floating Rate ETF | FLRN |
-| 29 | 72 | $22.85 | [Chart](https://www.tradingview.com/chart/?symbol=IBTG) | iShares iBonds Dec 2026 Term Treasury ETF | IBTG |
-| 38 | 70 | $77.92 | [Chart](https://www.tradingview.com/chart/?symbol=GPN) | Global Payments, Inc. | GPN |
-| 34 | 69 | $47.58 | [Chart](https://www.tradingview.com/chart/?symbol=SPHD) | Invesco S&P 500 High Dividend Low Volatility ETF | SPHD |
-| 35 | 69 | $78.28 | [Chart](https://www.tradingview.com/chart/?symbol=FIS) | Fidelity National Information Services, Inc. | FIS |
-| 35 | 69 | $45.92 | [Chart](https://www.tradingview.com/chart/?symbol=FTSL) | First Trust Senior Loan Fund ETF | FTSL |
-| 36 | 68 | $54.28 | [Chart](https://www.tradingview.com/chart/?symbol=ALRM) | Alarm.com Holdings, Inc. | ALRM |
-| 36 | 65 | $34.12 | [Chart](https://www.tradingview.com/chart/?symbol=FFIN) | First Financial Bankshares Inc | FFIN |
-| 39 | 65 | $20.37 | [Chart](https://www.tradingview.com/chart/?symbol=PEY) | Invesco High Yield Equity Dividend Achievers ETF | PEY |
-| 39 | 65 | $36.53 | [Chart](https://www.tradingview.com/chart/?symbol=HYLB) | Xtrackers USD High Yield Corporate Bond ETF | HYLB |
-| 39 | 62 | $23.55 | [Chart](https://www.tradingview.com/chart/?symbol=SPHY) | SPDR Portfolio High Yield Bond ETF | SPHY |
-| 39 | 62 | $83.56 | [Chart](https://www.tradingview.com/chart/?symbol=ACA) | Arcosa, Inc. Common Stock | ACA |
+| 27 | 75 | $44.76 | [Chart](https://www.tradingview.com/chart/?symbol=EPI) | WisdomTree India Earnings Fund ETF | EPI |
+| 31 | 75 | $59.91 | [Chart](https://www.tradingview.com/chart/?symbol=FTSM) | First Trust Enhanced Short Maturity ETF | FTSM |
+| 35 | 75 | $40.40 | [Chart](https://www.tradingview.com/chart/?symbol=APOG) | Apogee Enterprises Inc | APOG |
+| 36 | 73 | $20.89 | [Chart](https://www.tradingview.com/chart/?symbol=BKLN) | Invesco Senior Loan ETF | BKLN |
+| 32 | 72 | $30.73 | [Chart](https://www.tradingview.com/chart/?symbol=FLRN) | SPDR Bloomberg Investment Grade Floating Rate ETF | FLRN |
+| 29 | 71 | $22.86 | [Chart](https://www.tradingview.com/chart/?symbol=IBTG) | iShares iBonds Dec 2026 Term Treasury ETF | IBTG |
+| 33 | 69 | $54.05 | [Chart](https://www.tradingview.com/chart/?symbol=ALRM) | Alarm.com Holdings, Inc. | ALRM |
+| 34 | 68 | $47.56 | [Chart](https://www.tradingview.com/chart/?symbol=SPHD) | Invesco S&P 500 High Dividend Low Volatility ETF | SPHD |
+| 35 | 67 | $78.36 | [Chart](https://www.tradingview.com/chart/?symbol=FIS) | Fidelity National Information Services, Inc. | FIS |
+| 35 | 67 | $45.92 | [Chart](https://www.tradingview.com/chart/?symbol=FTSL) | First Trust Senior Loan Fund ETF | FTSL |
+| 39 | 67 | $78.04 | [Chart](https://www.tradingview.com/chart/?symbol=GPN) | Global Payments, Inc. | GPN |
+| 39 | 64 | $36.57 | [Chart](https://www.tradingview.com/chart/?symbol=HYLB) | Xtrackers USD High Yield Corporate Bond ETF | HYLB |
 
 ## **Methodology**
 
